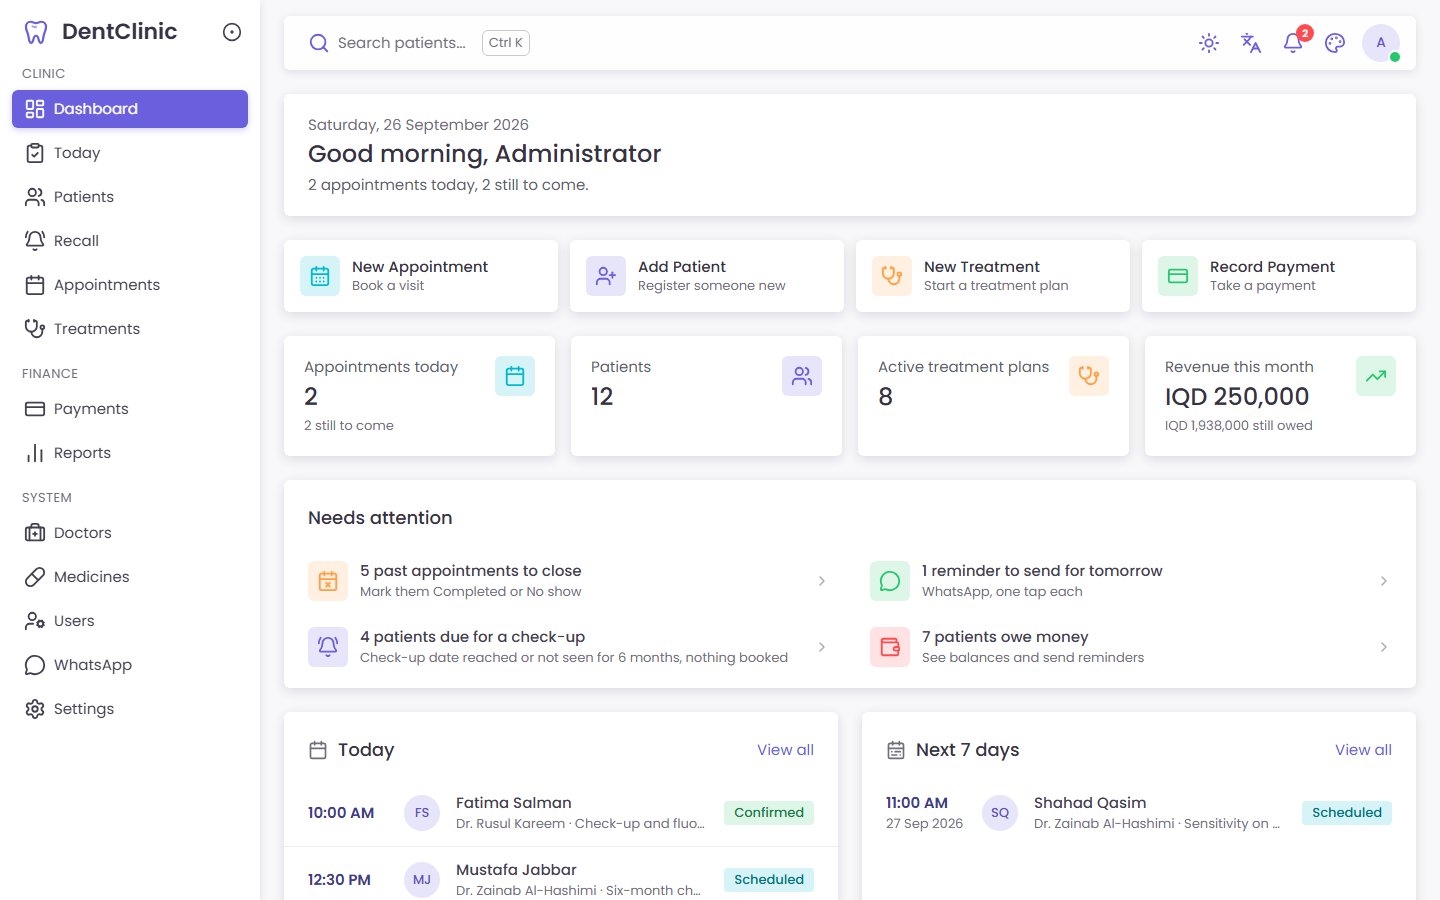
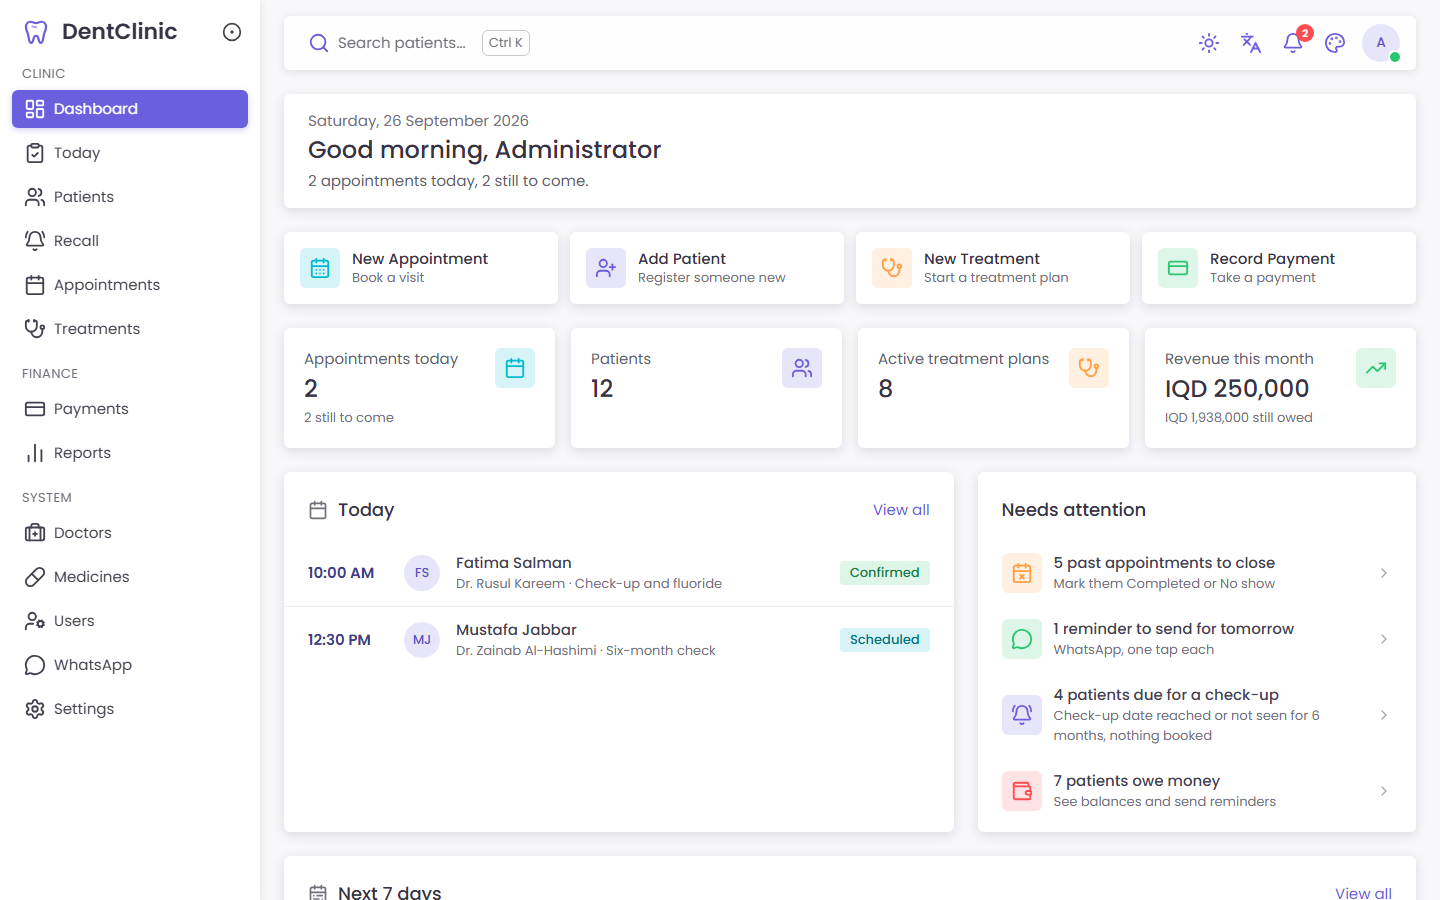
fix: Arabic in the new look, and a full HD screen shows the day at once
Arabic text, tables and forms use IBM Plex Sans Arabic; El Messiri stays for
headings. On a wide screen today's appointments and Needs attention sit side
by side under the numbers, so on a 1920 x 1080 screen at 100 % they show
without scrolling and the whole menu fits, in English and Arabic (a new
browser test checks both). Arabic chart notes name the dinar in Arabic.

Claude-Session: https://claude.ai/code/session_01LUmaZLLWk6hn2m5si6sstW

diff --git a/src/app/dashboard/page.tsx b/src/app/dashboard/page.tsx
@@ -222,6 +222,7 @@ function Dashboard() {
 
   const stillToCome = data?.today.filter((a) => a.status === "Scheduled" || a.status === "Confirmed").length ?? 0;
   const loadingValue = "…";
+  const attentionShown = Boolean(data && attentionRows(data.attention).length > 0);
   // In the clinic's currency: what is left on a plan in the other currency counts at today's rate.
   const outstanding = (data?.openPlans ?? []).reduce((sum, row) => sum + toMain(row.remaining_amount, row.currency), 0);
 
@@ -338,11 +339,19 @@ function Dashboard() {
             )}
           </div>
 
-          {data && <NeedsAttention attention={data.attention} />}
-
+          {/*
+            What needs doing today. On a wide screen today's appointments and the to-do list sit side by side under the
+            numbers, so both show on a full HD screen without scrolling; the next 7 days follow. On a medium screen the
+            to-do list comes first, then today and the next 7 days side by side.
+          */}
+          <div className="grid grid-cols-1 lg:grid-cols-2 xl:grid-cols-5 gap-6">
+            {attentionShown && data && (
+              <NeedsAttention attention={data.attention} className="lg:col-span-2 xl:col-span-2 xl:order-2" />
+            )}
           {seeAppointments && (
-            <div className="grid grid-cols-1 lg:grid-cols-2 gap-6">
+            <>
               <Card
+                className={cx("xl:order-1", attentionShown ? "xl:col-span-3" : "xl:col-span-5")}
                 title={mine ? t.dashboard.myTodayCard : t.dashboard.todayCard}
                 icon={Calendar}
                 section="appointments"
@@ -356,6 +365,7 @@ function Dashboard() {
                 <AppointmentList rows={data?.today} empty={t.dashboard.noAppointmentsToday} showDate={false} />
               </Card>
               <Card
+                className="xl:col-span-5 xl:order-3"
                 title={mine ? t.dashboard.myNext7 : t.dashboard.next7}
                 icon={CalendarRange}
                 section="appointments"
@@ -368,21 +378,22 @@ function Dashboard() {
               >
                 <AppointmentList rows={data?.upcoming} empty={t.dashboard.nothingNext7} showDate />
               </Card>
-            </div>
+            </>
           )}
+          </div>
 
           {data && showCharts && (
             <div className="grid grid-cols-1 md:grid-cols-2 xl:grid-cols-3 gap-6">
               {data.revenueByMonth && (
                 <Card title={t.dashboard.revenueChart(CHART_MONTHS)} icon={TrendingUp} section="money">
                   <BarChart
-                    label={t.dashboard.revenueChartLabel(currency, CHART_MONTHS)}
+                    label={t.dashboard.revenueChartLabel(t.dates.currencySymbols[currency] ?? currency, CHART_MONTHS)}
                     data={data.revenueByMonth}
                     format={short}
                     highlight={CHART_MONTHS - 1}
                     empty={t.dashboard.noRevenue}
                   />
-                  <p className="text-xs text-gray-500 mt-3">{t.dashboard.revenueNote(currency)}</p>
+                  <p className="text-xs text-gray-500 mt-3">{t.dashboard.revenueNote(t.dates.currencySymbols[currency] ?? currency)}</p>
                 </Card>
               )}
               {data.visitsByMonth && (
@@ -422,7 +433,7 @@ function Dashboard() {
 /** The greeting at the top: the date, "Good morning, …" and a one-line summary of the day, on a plain card. */
 function WelcomeBanner({ title, date, summary, actions }: { title: string; date: string; summary?: string; actions?: ReactNode }) {
   return (
-    <div className={cx(CARD_CLASS, "px-5 py-5 sm:px-6 flex flex-col sm:flex-row sm:items-center justify-between gap-4")}>
+    <div className={cx(CARD_CLASS, "px-5 py-4 sm:px-6 flex flex-col sm:flex-row sm:items-center justify-between gap-4")}>
       <div className="min-w-0">
         <p className="text-sm text-gray-500">{date}</p>
         <h1 className="text-2xl font-medium text-gray-900 mt-0.5 break-words">{title}</h1>
@@ -490,10 +501,12 @@ function readRemindersOpened(): string[] {
   }
 }
 
-/** A short to-do list for the start of the day. Rows with nothing to do are left out. */
-function NeedsAttention({ attention }: { attention: DashboardData["attention"] }) {
+type AttentionRow = { href: string; icon: typeof CalendarX; hue: Hue; text: string; hint: string };
+
+/** The rows of the to-do list; rows with nothing to do are left out. */
+function attentionRows(attention: DashboardData["attention"]): AttentionRow[] {
   const t = messages().dashboard.attention;
-  const rows: Array<{ href: string; icon: typeof CalendarX; hue: Hue; text: string; hint: string } | null> = [
+  const rows: Array<AttentionRow | null> = [
     attention.openPast
       ? { href: "/today", icon: CalendarX, hue: "yellow", text: t.openPast(attention.openPast), hint: t.openPastHint }
       : null,
@@ -507,11 +520,17 @@ function NeedsAttention({ attention }: { attention: DashboardData["attention"] }
       ? { href: "/patients?balance=owing", icon: Wallet, hue: "red", text: t.owing(attention.owing), hint: t.owingHint }
       : null,
   ];
-  const shown = rows.filter((row) => row !== null);
+  return rows.filter((row) => row !== null);
+}
+
+/** A short to-do list for the start of the day. One column beside today's appointments on a wide screen. */
+function NeedsAttention({ attention, className }: { attention: DashboardData["attention"]; className?: string }) {
+  const t = messages().dashboard.attention;
+  const shown = attentionRows(attention);
   if (shown.length === 0) return null;
   return (
-    <Card title={t.title} flush>
-      <ul className="grid grid-cols-1 md:grid-cols-2 gap-x-2 px-2 pb-2">
+    <Card title={t.title} flush className={className}>
+      <ul className="grid grid-cols-1 md:grid-cols-2 xl:grid-cols-1 gap-x-2 px-2 pb-2">
         {shown.map((row) => (
           <li key={row.text}>
             <Link href={row.href} className="flex items-center gap-3 px-3 sm:px-4 py-3 min-h-11 rounded-xl hover:bg-gray-50">

diff --git a/src/app/layout.tsx b/src/app/layout.tsx
@@ -1,5 +1,5 @@
 import type { Metadata } from "next";
-import { El_Messiri, Poppins } from "next/font/google";
+import { El_Messiri, IBM_Plex_Sans_Arabic, Poppins } from "next/font/google";
 import "./globals.css";
 import { AuthProvider } from "@/context/AuthContext";
 import { LanguageProvider } from "@/context/LanguageContext";
@@ -12,8 +12,9 @@ import { ZOOM_BOOT_SCRIPT } from "@/lib/display";
 import { THEME_BOOT_SCRIPT } from "@/lib/theme";
 import { APPEARANCE_BOOT_SCRIPT } from "@/lib/appearanceBoot";
 
-// globals.css uses them through their variables: Poppins for English, El Messiri for Arabic.
-// No fallback font of its own: on Arabic screens Poppins comes first, and letters it lacks must reach El Messiri.
+// globals.css uses them through their variables: Poppins for English; IBM Plex Sans Arabic for Arabic text, tables and
+// forms, and El Messiri for Arabic headings. Poppins has no fallback font of its own: on Arabic screens it comes first,
+// and the letters it lacks must reach the Arabic font.
 const poppins = Poppins({
   subsets: ["latin"],
   weight: ["300", "400", "500", "600", "700"],
@@ -21,7 +22,20 @@ const poppins = Poppins({
   variable: "--font-poppins",
   adjustFontFallback: false,
 });
-const arabic = El_Messiri({ subsets: ["arabic", "latin"], weight: ["400", "500", "600", "700"], display: "swap", variable: "--font-arabic" });
+const arabic = IBM_Plex_Sans_Arabic({
+  subsets: ["arabic"],
+  weight: ["400", "500", "600", "700"],
+  display: "swap",
+  variable: "--font-arabic",
+  adjustFontFallback: false,
+});
+const arabicHeadings = El_Messiri({
+  subsets: ["arabic"],
+  weight: ["500", "600", "700"],
+  display: "swap",
+  variable: "--font-arabic-headings",
+  adjustFontFallback: false,
+});
 
 export const metadata: Metadata = {
   title: "DentClinic",
@@ -36,7 +50,7 @@ export default function RootLayout({
   return (
     // The boot scripts may set the language, the clinic colour, this computer's screen size and its appearance
     // (dark mode, collapsed menu …) on <html> before React loads.
-    <html lang={DEFAULT_LANG} dir={dirOf(DEFAULT_LANG)} className={`${poppins.variable} ${arabic.variable}`} suppressHydrationWarning>
+    <html lang={DEFAULT_LANG} dir={dirOf(DEFAULT_LANG)} className={`${poppins.variable} ${arabic.variable} ${arabicHeadings.variable}`} suppressHydrationWarning>
       <head>
         <script dangerouslySetInnerHTML={{ __html: LANG_BOOT_SCRIPT + THEME_BOOT_SCRIPT + ZOOM_BOOT_SCRIPT + APPEARANCE_BOOT_SCRIPT }} />
       </head>

diff --git a/e2e/tests/full-hd.spec.ts b/e2e/tests/full-hd.spec.ts
@@ -1,0 +1,31 @@
+import { expect, test } from "../fixtures";
+import { waitForData } from "../helpers";
+
+/*
+ * On a 1920 × 1080 screen at 100 % (Windows taskbar, Chrome's tabs and address bar: about 1920 × 940 of page), the
+ * whole menu fits without scrolling, and the dashboard shows "Needs attention" and today's appointments without
+ * scrolling, in English and in Arabic.
+ */
+for (const lang of ["en", "ar"] as const) {
+  test.describe(lang, () => {
+    test.use({ lang });
+
+    test(`a full HD screen shows the whole menu and the day's work without scrolling (${lang})`, async ({ page }) => {
+      await page.setViewportSize({ width: 1920, height: 940 });
+      await page.goto("/dashboard");
+      await waitForData(page);
+      const nav = page.locator("aside nav");
+      const { scroll, client } = await nav.evaluate((el) => ({ scroll: el.scrollHeight, client: el.clientHeight }));
+      expect(scroll).toBeLessThanOrEqual(client);
+      // The last menu item is on screen.
+      await expect(nav.getByRole("link").last()).toBeInViewport({ ratio: 1 });
+
+      const card = (name: RegExp) => page.locator("section").filter({ has: page.getByRole("heading", { name }) });
+      const attention = card(lang === "en" ? /^Needs attention$/ : /^بحاجة إلى متابعة$/);
+      const today = card(lang === "en" ? /^Today$/ : /^اليوم$/);
+      await expect(attention).toBeInViewport({ ratio: 1 });
+      await expect(today).toBeInViewport({ ratio: 1 });
+      expect(await page.evaluate(() => window.scrollY)).toBe(0);
+    });
+  });
+}

diff --git a/src/app/reports/page.tsx b/src/app/reports/page.tsx
@@ -200,6 +200,8 @@ function Reports() {
     );
 
   const stale = data.key !== key;
+  // "د.ع" in Arabic, the code (IQD) in English.
+  const currencyName = t.dates.currencySymbols[currency] ?? currency;
   const payments = data.payments;
   // Totals in the clinic's currency (each payment at the rate of its day), and what came in, per currency.
   const revenue = payments.reduce((sum, row) => sum + baseAmount(row), 0);
@@ -328,13 +330,13 @@ function Reports() {
         <div className="grid grid-cols-1 xl:grid-cols-2 gap-6">
           <Card title={r.revenueChart} icon={TrendingUp} section="money">
             <BarChart
-              label={r.revenueChartLabel(settings.currency || "IQD")}
+              label={r.revenueChartLabel(currencyName)}
               data={revenueSeries}
               format={(value) => formatCompact(value)}
               empty={r.noPayments}
             />
             <p className="text-xs text-gray-500 mt-3">
-              {daily ? r.byDayNote(settings.currency || "IQD") : r.byMonthNote(settings.currency || "IQD")}
+              {daily ? r.byDayNote(currencyName) : r.byMonthNote(currencyName)}
             </p>
           </Card>
           <Card title={daily ? r.visitsChart : r.visitsChartMonths} icon={CalendarDays} section="appointments">

diff --git a/src/app/globals.css b/src/app/globals.css
@@ -196,7 +196,7 @@
 }
 
 @theme {
-  /* Poppins for English, El Messiri for Arabic (next/font in layout.tsx). */
+  /* Poppins for English; IBM Plex Sans Arabic and El Messiri (headings) for Arabic (next/font in layout.tsx). */
   --font-sans: var(--font-poppins), ui-sans-serif, system-ui, sans-serif;
 
   /* One text scale: 13 px small text, 15 px body. */
@@ -278,10 +278,16 @@ body {
   font-size: 0.9375rem;
 }
 
-/* Arabic screens: El Messiri for Arabic letters; Poppins (which has none) still draws names typed in English. */
+/*
+ * Arabic screens: IBM Plex Sans Arabic for text, tables and forms, El Messiri for headings. Poppins comes first in
+ * both (it has no Arabic letters), so names typed in English keep the English font.
+ */
 :root[lang="ar"] body {
   font-family: var(--font-poppins), var(--font-arabic), ui-sans-serif, system-ui, sans-serif;
   letter-spacing: 0;
+}
+:root[lang="ar"] :where(h1, h2, h3, h4) {
+  font-family: var(--font-poppins), var(--font-arabic-headings), var(--font-arabic), ui-sans-serif, system-ui, sans-serif;
 }
 
 /* The page behind the cards. */

diff --git a/e2e/tests/arabic.spec.ts b/e2e/tests/arabic.spec.ts
@@ -12,7 +12,9 @@ test("the app opens in Arabic, right to left, and switches to English and back",
   const html = page.locator("html");
   await expect(html).toHaveAttribute("lang", "ar");
   await expect(html).toHaveAttribute("dir", "rtl");
-  await expect.poll(() => page.evaluate(() => getComputedStyle(document.body).fontFamily)).toContain("El Messiri");
+  await expect.poll(() => page.evaluate(() => getComputedStyle(document.body).fontFamily)).toContain("IBM Plex Sans Arabic");
+  // Headings are El Messiri.
+  await expect.poll(() => page.evaluate(() => getComputedStyle(document.querySelector("h1") as Element).fontFamily)).toContain("El Messiri");
 
   // Arabic words, Iraqi month names and dinars.
   await expect(page.getByRole("heading", { name: "صباح الخير، Administrator" })).toBeVisible();

diff --git a/AGENTS.md b/AGENTS.md
@@ -31,7 +31,7 @@ accurate.
 | `npm run build` | **Passes** (checked 2026-09-30): compiles, type-checks and prerenders every route, with no warnings. | |
 | `npm run lint` | **Passes** with 0 problems (checked 2026-09-30). `npx tsc --noEmit` passes too. | |
 | Languages | **Arabic (default, right to left) and English.** Every text is in `src/i18n/en/*.ts` and `src/i18n/ar/*.ts`; the switch is in the menu. See **Languages** below. **Every new text must be added in both languages.** | `src/i18n/`, `src/context/LanguageContext.tsx` |
-| Tests | **Playwright tests pass** (147 tests, 10 of them in Arabic, checked 2026-09-30; run them with `--workers=2` on the owner's machine, never while a build runs): one file per area in `e2e/tests/` (patients, booking, calendar, Today board, treatments, payments, prescriptions, printouts, permissions, WhatsApp, X-rays, two currencies, phone numbers and more). Pure helpers such as `src/lib/phone.ts` are tested in the same runner without a browser. No CI. | `e2e/`, `playwright.config.ts` |
+| Tests | **Playwright tests pass** (149 tests, 11 of them in Arabic, checked 2026-09-30; run them with `--workers=2` on the owner's machine, never while a build runs): one file per area in `e2e/tests/` (patients, booking, calendar, Today board, treatments, payments, prescriptions, printouts, permissions, WhatsApp, X-rays, two currencies, phone numbers and more). Pure helpers such as `src/lib/phone.ts` are tested in the same runner without a browser. No CI. | `e2e/`, `playwright.config.ts` |
 
 Both flags are set this way on purpose. Leave them alone unless the task is about them.
 
@@ -65,7 +65,7 @@ The Frappe address comes from the `FRAPPE_URL` environment variable (for example
 | Framework | Next.js **16.2.9**, App Router, Turbopack |
 | UI | React **19.2.4**, TypeScript 5 with `strict: true`, path alias `@/*` → `src/*` |
 | Styling | Tailwind CSS **v4** via `@tailwindcss/postcss`. It is CSS-first: no `tailwind.config.*`; the design tokens (the `primary-*` palette and the text scale) are an `@theme` block in `src/app/globals.css` |
-| Font | Poppins for English and El Messiri for Arabic, through `next/font/google` in `layout.tsx` (the `--font-poppins` and `--font-arabic` variables, used by `body` in `globals.css`) |
+| Font | Poppins for English; IBM Plex Sans Arabic for Arabic text, tables and forms, and El Messiri for Arabic headings, through `next/font/google` in `layout.tsx` (the `--font-poppins`, `--font-arabic` and `--font-arabic-headings` variables, used in `globals.css`) |
 | Icons | `lucide-react` everywhere; the tooth logo is our own SVG in `src/components/ToothLogo.tsx` |
 | HTTP | `axios`, one instance in `src/lib/frappe.ts` |
 | State | React Context (auth, settings, session, toasts) and per-page `useState`. No global store, no data-fetching library |
@@ -121,7 +121,7 @@ src/lib/frappe.ts   the only module that touches data
 ```
 src/
 ├── app/
-│   ├── layout.tsx                 root layout: fonts (Poppins, El Messiri), boot scripts, providers, MainLayout
+│   ├── layout.tsx                 root layout: fonts (Poppins, IBM Plex Sans Arabic, El Messiri), boot scripts, providers, MainLayout
 │   ├── page.tsx                   redirect("/dashboard")
 │   ├── not-found.tsx              404 page
 │   ├── globals.css                Tailwind import, body colours, print background
@@ -242,7 +242,7 @@ on the form, and a click made while the save is still running is overridden by t
 | Route | Permission | What it does |
 |---|---|---|
 | `/` | none | Server redirect to `/dashboard` |
-| `/dashboard` | none (cards appear per permission) | A **welcome card** (date, greeting, "2 appointments today, 2 still to come."); right under it the **quick actions** as large `ActionTile`s (New Appointment, Add Patient, New Treatment, Record Payment, each by permission, with a one-line hint from `sm` up); counts for today's appointments, patients, active plans; revenue this month and amount owed; today's list and the next 7 days; a **Needs attention** card (hidden when empty) with past appointments still open, tomorrow's reminders not yet opened, patients due for recall (`dueForRecall` in `src/lib/recall.ts`: the dentist's date, else 6 months) and patients who owe money, each linking to where it is handled; the appointment lists show each patient's initials (`Avatar`). Below, three **charts** (`Charts.tsx`), each by permission: revenue per month for the last 6 months (`view_payments`, amounts written short, "450K"), visits per month (`view_appointments`, cancelled ones and no-shows left out) and treatment plans by type (`view_treatments`, a ring with the 5 biggest types and "Other") |
+| `/dashboard` | none (cards appear per permission) | A **welcome card** (date, greeting, "2 appointments today, 2 still to come."); on a wide screen (xl) today's appointments and **Needs attention** sit side by side right under the numbers, so on a full HD screen (1920 × 1080 at 100 %) they show without scrolling, and the whole menu fits too (`e2e/tests/full-hd.spec.ts`); right under it the **quick actions** as large `ActionTile`s (New Appointment, Add Patient, New Treatment, Record Payment, each by permission, with a one-line hint from `sm` up); counts for today's appointments, patients, active plans; revenue this month and amount owed; today's list and the next 7 days; a **Needs attention** card (hidden when empty) with past appointments still open, tomorrow's reminders not yet opened, patients due for recall (`dueForRecall` in `src/lib/recall.ts`: the dentist's date, else 6 months) and patients who owe money, each linking to where it is handled; the appointment lists show each patient's initials (`Avatar`). Below, three **charts** (`Charts.tsx`), each by permission: revenue per month for the last 6 months (`view_payments`, amounts written short, "450K"), visits per month (`view_appointments`, cancelled ones and no-shows left out) and treatment plans by type (`view_treatments`, a ring with the 5 biggest types and "Other") |
 | `/today` | `view_appointments` | The front desk board: counts (still to come, late, completed, no show), today's appointments grouped by doctor with one-tap **Confirm**, **Completed**, **No show** and **Undo** (`edit_appointments`), late patients (still open `LATE_AFTER` = 10 minutes after the start) highlighted, a red chip for high medical alerts, what the patient owes (`view_payments`), **Add Payment** (`add_payments`), **Walk-in** (books now, rounded up to the quarter hour) and Refresh. **Tomorrow's reminders** (when `enable_whatsapp` is on) lists tomorrow's booked patients with **Send reminder**, which opens `wa.me` with the active "24 Hours Before" template (or the first active one) filled in; opened reminders are remembered on that computer (`localStorage.reminders_opened`). **Lab work due** lists plans sent to a lab and not back that are late or due within two days (`view_treatments`). Below, **Earlier, still open** lists up to 50 past appointments still Scheduled or Confirmed, with Completed / No show / Cancelled buttons; resolved ones drop off. The dashboard and the bell link here |
 | `/patients` | `view_patients` | Server-side search (name, phone, second phone, ID), gender filter, paging. Each row: name with ID, age and gender, medical-alert chips (`medicalFlags`), phone, next booked visit (`view_appointments`, loaded for the rows on the page) and balance (`view_payments`). With `view_payments`, a **Balance** filter ("Owes money": `total_remaining > 0`, biggest first; `?balance=owing` opens on it) adds a WhatsApp **Remind** link with the balance written in |
 | `/recall` | `view_patients` and `view_appointments` | Patients due for a check-up and with nothing Scheduled or Confirmed from today on: a patient with `next_recall_date` (the dentist's choice) is due from that date whatever the period, one with `no_recall` never is, and everyone else is due when no Completed visit falls within the chosen period (3, 6, 9 or 12 months; default 6). A **Check-up due** column says when and why ("Dentist: every 3 months" or "6 months after the last visit"); longest overdue first, never-seen patients last. Tap to call, a WhatsApp link with a ready reminder text (`wa.me/<digits>?text=`), and Book (`add_appointments`). Worked out in the browser from all appointments |
@@ -704,7 +704,7 @@ writing new class lists.
   solid with `shadow-primary`, 40 px (44 px on touch screens), 6 px corners, medium weight; the secondary one outlined.
   Fields outlined (the text colour at 26 %), 2 px clinic colour and a lift on focus, the label small and above.
   Tables plain: small-capital headers in the text colour, thin rows. Pill tabs. Violet clinic colour (#6a5fdd, the
-  design's #7367f0 a touch deeper for readable white text). Poppins, El Messiri for Arabic. No gradients, glows,
+  design's #7367f0 a touch deeper for readable white text). Poppins; IBM Plex Sans Arabic, with El Messiri for Arabic headings. No gradients, glows,
   mascots, drawings or cartoon avatars: people are shown by their initials, or a photo.
 - **Dark mode and the other appearance choices** are per computer (`src/lib/appearance.ts`, `localStorage.appearance`):
   light, dark or the computer's own setting (the theme menu in the top bar, or the Appearance panel), a menu collapsed
@@ -899,9 +899,10 @@ from the translation files, never from text typed in a component.
   `border-s` …), give sideways arrows `rtl:rotate-180`, and slide things in from the start side
   (`-translate-x-full rtl:translate-x-full`). Phone numbers, record IDs, amounts and times in inputs, and the dental
   chart's teeth (anatomical: the patient's right is always on the left) keep `dir="ltr"`.
-- **Fonts.** Poppins for English, El Messiri for Arabic (`next/font`, `--font-poppins` and `--font-arabic`). On
-  Arabic screens `body` lists Poppins first: it has no Arabic letters, so Arabic text is El Messiri and names typed
-  in English stay Poppins (Poppins has `adjustFontFallback: false`: its Arial fallback would otherwise draw the Arabic).
+- **Fonts.** Poppins for English. In Arabic, IBM Plex Sans Arabic for text, tables and forms, and El Messiri only for
+  headings (`h1`-`h4`) (`next/font`: `--font-poppins`, `--font-arabic`, `--font-arabic-headings`). On Arabic screens
+  Poppins comes first: it has no Arabic letters, so Arabic text reaches the Arabic font and names typed in English stay
+  Poppins. The fonts have `adjustFontFallback: false`: an Arial fallback would otherwise draw the Arabic.
 - **WhatsApp templates** have a `language` (`ar`, `en` or empty): `pickTemplate(templates, trigger, lang)` in
   `src/lib/whatsapp.ts` prefers the screen's language. The dummy data has each template in both languages.
 - **Tests.** The browser tests run in English: `e2e/fixtures.ts` sets the language chosen on the computer to `en`

diff --git a/IMPROVEMENTS.md b/IMPROVEMENTS.md
@@ -17,6 +17,12 @@ Each finished item says what changed, when, and which commit holds it.
 
 ## Done
 
+- 2026-09-30 - **Arabic checked again in the new look; a full HD screen shows the day at once.** Arabic text,
+  tables and forms now use IBM Plex Sans Arabic, and El Messiri is kept for headings. On a 1920 × 1080 screen at
+  100 % the whole menu fits without scrolling, and the dashboard shows "Needs attention" and today's appointments
+  side by side without scrolling, in English and in Arabic (a browser test checks both). Arabic chart notes say
+  "د.ع" instead of "IQD".
+
 - 2026-09-30 - **A clean, professional look, like the pet store app.** The owner found the "Midnight" design
   AI-made, so it is replaced everywhere by a calm admin look rebuilt in DentClinic's own code (no template files, no
   Vuetify): white cards with small rounded corners and soft shadows on a light grey page, a white menu with the
